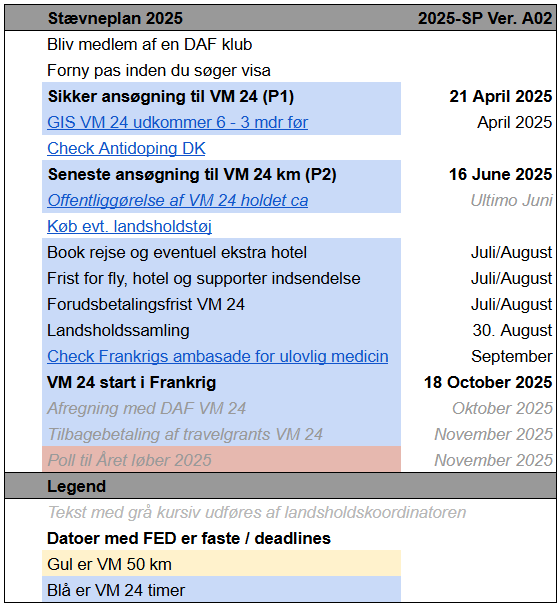
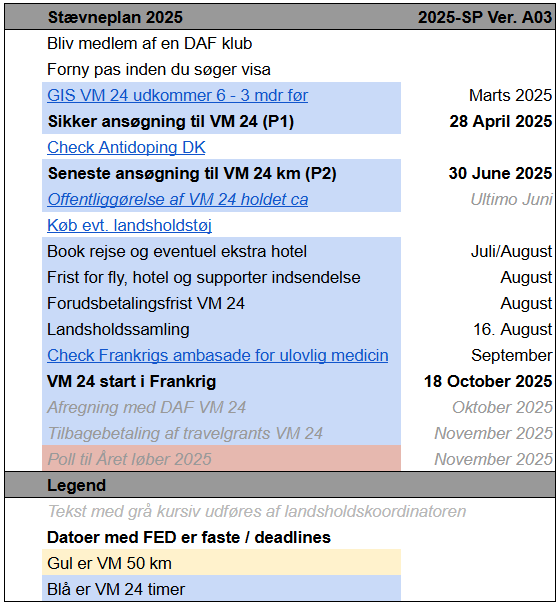
Nye datoer

Changed region(s): [[0.0, 0.0, 1.0, 1.0], [0.702, 0.2687, 0.7325, 0.3582], [0.702, 0.1493, 0.7325, 0.209]]

diff --git a/src/pages/staevner2025/index.md b/src/pages/staevner2025/index.md
@@ -49,14 +49,14 @@ For at få en **wildcard** plads skal man kunne påvise at man har et niveau til
 ## Tidsfrister
 
 Der er to perioder at søge i ⏰
-* P1: Indtil den **21. april 2025** 🟢. Herefter laves forhåndsudtagelse (eksklusiv wildcards).
-* P2: Indtil den **16. juni 2025** 🟠. Herefter laves endelig udtagelse (inklusiv wildcards).
+* P1: Indtil den **28. april 2025** 🟢. Herefter laves forhåndsudtagelse (eksklusiv wildcards).
+* P2: Indtil den **30. juni 2025** 🟠. Herefter laves endelig udtagelse (inklusiv wildcards).
 
 Kvalificerer du dig i P1, er du 95% sikker på en plads på holdet 😊.  
-Søger du i P2, er der risiko for, at GIS *1 udkommer i løbet af perioden, og at der dermed lukkes for ansøgning ☹ før P2 udløber💡  
+Søger du i P2, er der chance for, at GIS *1 udkommer i løbet af perioden, og at der bliver risiko for at der lukkes for ansøgning ☹ før P2 udløber💡  
 Søg derfor helst kun i P2 hvis du glemte at søge i P1 eller forbedrer dig i P2.
 
-*1 GIS er invitation inkl. tilmelding fra IAU til landsholdene.
+*1 GIS er invitation inkl. tilmelding fra IAU til landsholdene. Den indeholder deadlines, som bestemmer landsholdets deadlines.
 
 [![Stævnetider for 2025](../../img/staevner/SP-pub-2025.png)](https://bit.ly/ul-sp2)
 
@@ -76,7 +76,7 @@ Løbere på landsholdet skal overholde gældende [doping regler](https://www.ant
     * Køber rejse til stævne
 * Landsholdet:
     * Tilmelder hold til stævne(r)
-    * Slutafregner med DAF og løberne - inclusiv tilbagebetaling af travelgrants til løberne
+    * Slutafregner med DAF og løberne - inklusiv tilbagebetaling af travelgrants til løberne
 
 <img src="../../img/staevner/vm-wma-aabentlob.drawio.svg" alt="WMA og Åbent løb"/>
 
@@ -90,7 +90,7 @@ Skulle en løber ikke blive accepteret på landsholdet har stævner ofte åbne l
 På landsholdet vil vi gøre så meget som muligt for at inkludere danske løbere fra åbne løb i landsholdteamet, så i kan bidrage til en samlet dansk teamånd. 
 Der er dog begrænsninger bl.a. i form af at depot for åbent løb ikke er delt med landsholdet.
 Ønsker i at deltage i åbent løb er i også velkomne i vores stævnegruppe og til at deltage i landsholdssamling.  
-Som sidste udnævner vi en `Kaptajn for 24 timer åbent løb og WMA`, som er bindeled til landsholdet. Det er en frivillig ubetalt opgave for at fremme den danske teamånd.  
+Som sidste søger vi en `Kaptajn for 24 timer åbent løb og WMA`, som er bindeled til landsholdet. Det er en frivillig ubetalt opgave for at fremme den danske teamånd.  
 
 Tilmelding og arrangering af deltagelse i åbne løb gøres af løberen selv.
 
@@ -134,6 +134,7 @@ Alternativt kontakter du DAF direkte ([Inger Marie](https://dansk-atletik.dk/for
 
 Før VM arrangerer landsholdet en samling i DK, så Landsholdsdeltagere, WMA og åbentløbsdeltagere har mulighed for at bygge en landsholdsånd op forud for VM.
 Invitation sendes ud til løbere, der har søgt om deltagelse.
+I år løber samlingen af stablen **d. 16 August**.
 
 ##
 <h2 id="landsholdstoj">Landsholdstøj</h2>
